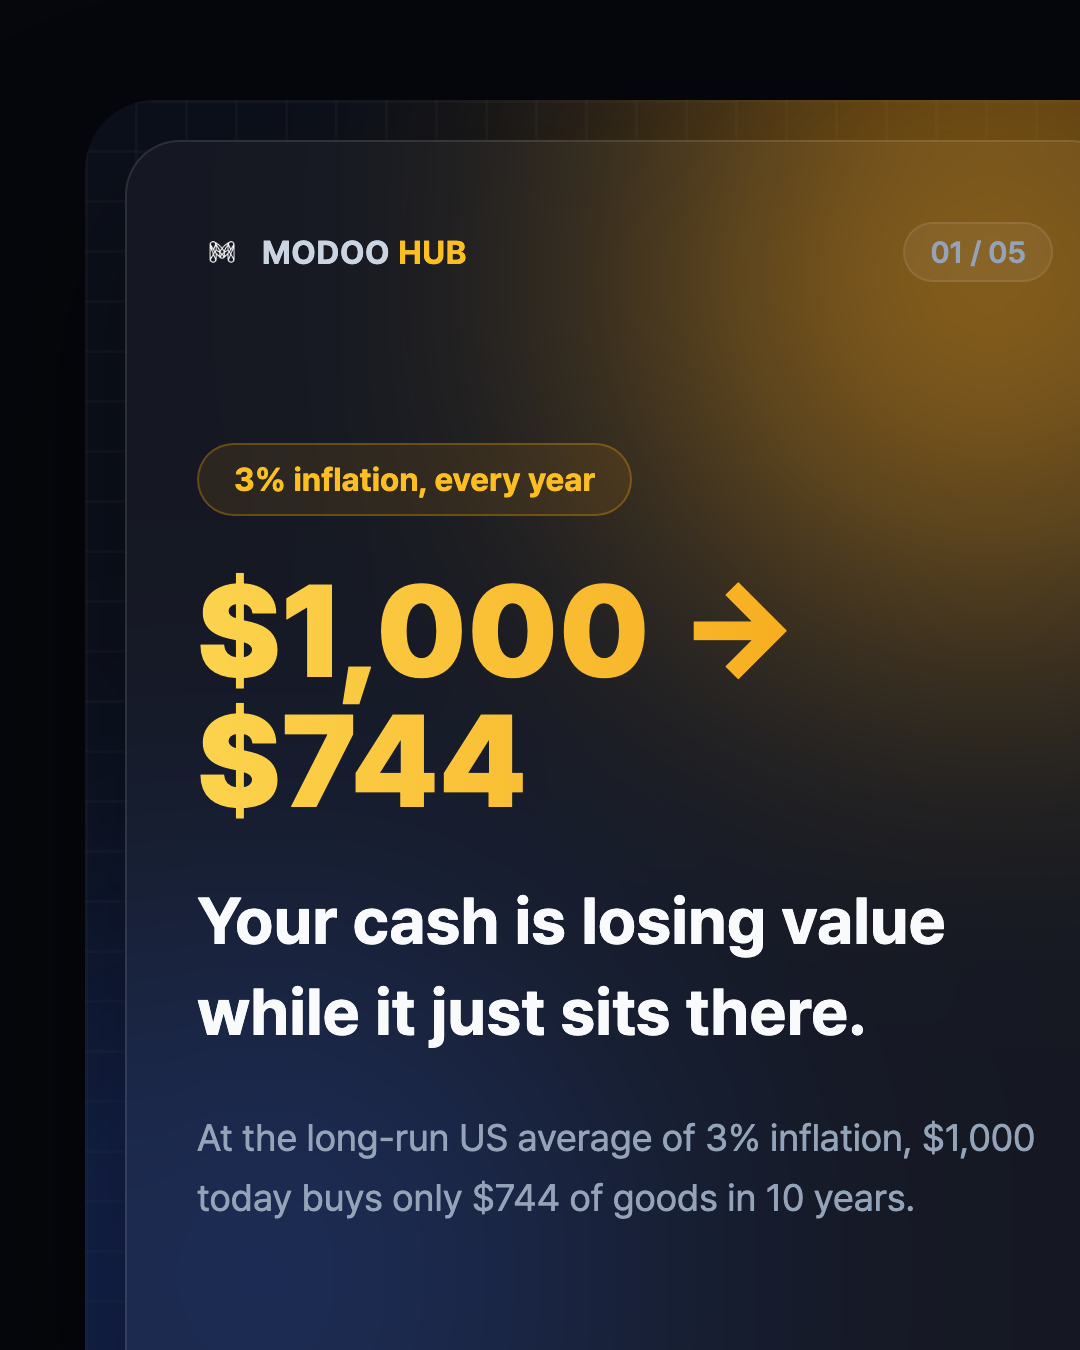
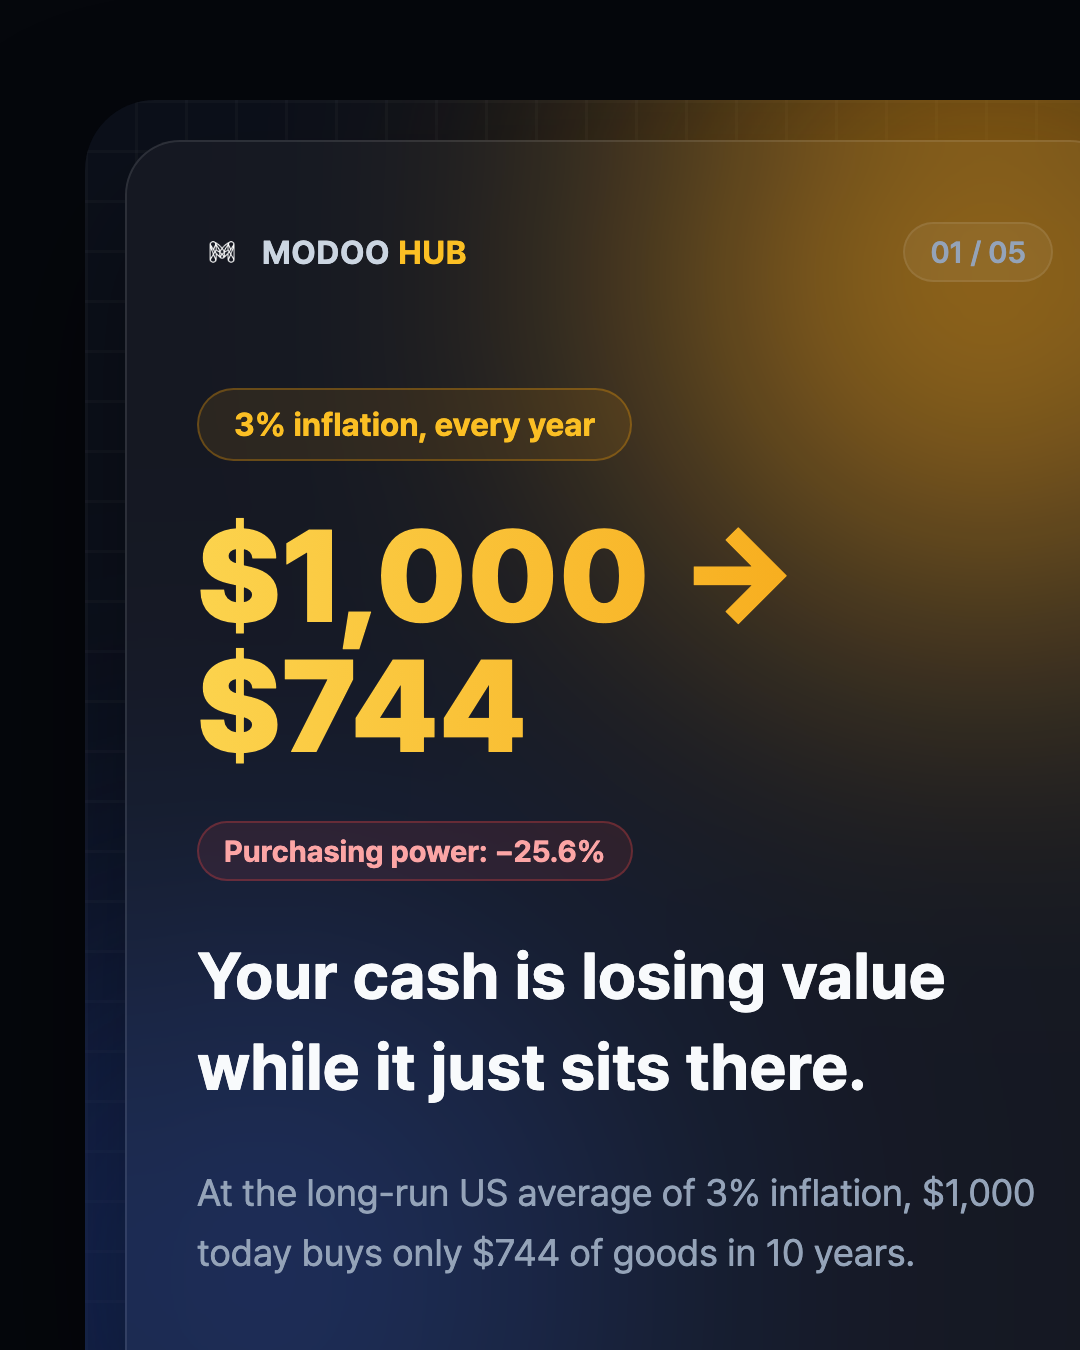
Apply Gemini fact-check fixes to Global batch 2
- timezone-converter: headline now "13-14 hours apart" with DST-aware
  subtext (Seoul KST is fixed UTC+9; NY is UTC-4 in summer/DST, UTC-5
  in winter — the old fixed "13 hours" was only true half the year).
- vat-calculator: replaced the UK tourist tax-free example (£30/store/
  day) with Italy (€70.01/store/day, verified current 2026 threshold)
  — UK abolished its VAT Retail Export Scheme for tourists in Jan 2021
  and has not reinstated it, so the old example was factually wrong.
  Also swapped the checkmark icons on the "mistakes" checklist for
  warning icons (checkmarks read as positive, but the content is a
  list of errors to avoid).
- loan-payoff-calculator: swapped warning-triangle icons for
  checkmarks on the "why extra payments work so well" slide — that
  content is positive strategy tips, not a warning.
- inflation-calculator: added a "Purchasing power: -25.6%" tag next
  to the $1,000 -> $744 headline number for a clearer loss framing.

Changed region(s): [[0.1833, 0.28, 0.9778, 0.9644], [0.6417, 0.3733, 0.7333, 0.4978]]

diff --git a/promotion/template/global-vat-calculator.html b/promotion/template/global-vat-calculator.html
@@ -87,16 +87,16 @@
           <p style="font-size:14px; color:#94a3b8; margin:0 0 8px;">Three that show up again and again.</p>
           <div style="display:flex; flex-direction:column; gap:12px;">
             <div style="display:flex; gap:12px; align-items:flex-start; background:rgba(255,255,255,0.03); border:1px solid rgba(255,255,255,0.08); border-radius:14px; padding:14px 16px;">
-              <svg width="20" height="20" viewBox="0 0 24 24" fill="none" style="flex-shrink:0; margin-top:2px;"><circle cx="12" cy="12" r="10" stroke="#fbbf24" stroke-width="2"/><path d="M8 12l3 3 5-6" stroke="#fbbf24" stroke-width="2" stroke-linecap="round" stroke-linejoin="round"/></svg>
+              <svg width="20" height="20" viewBox="0 0 24 24" fill="none" style="flex-shrink:0; margin-top:2px;"><path d="M12 9v4M12 17h.01" stroke="#fbbf24" stroke-width="2" stroke-linecap="round"/><circle cx="12" cy="12" r="10" stroke="#fbbf24" stroke-width="2"/></svg>
               <div><div style="font-size:15px; font-weight:600; color:#f1f5f9;">Quoting VAT-inclusive as VAT-exclusive</div><div style="font-size:13px; color:#94a3b8; margin-top:2px;">Silently undercharges by the full VAT amount</div></div>
             </div>
             <div style="display:flex; gap:12px; align-items:flex-start; background:rgba(255,255,255,0.03); border:1px solid rgba(255,255,255,0.08); border-radius:14px; padding:14px 16px;">
-              <svg width="20" height="20" viewBox="0 0 24 24" fill="none" style="flex-shrink:0; margin-top:2px;"><circle cx="12" cy="12" r="10" stroke="#fbbf24" stroke-width="2"/><path d="M8 12l3 3 5-6" stroke="#fbbf24" stroke-width="2" stroke-linecap="round" stroke-linejoin="round"/></svg>
+              <svg width="20" height="20" viewBox="0 0 24 24" fill="none" style="flex-shrink:0; margin-top:2px;"><path d="M12 9v4M12 17h.01" stroke="#fbbf24" stroke-width="2" stroke-linecap="round"/><circle cx="12" cy="12" r="10" stroke="#fbbf24" stroke-width="2"/></svg>
               <div><div style="font-size:15px; font-weight:600; color:#f1f5f9;">Not reclaiming input VAT on purchases</div><div style="font-size:13px; color:#94a3b8; margin-top:2px;">VAT-registered businesses can offset it against output VAT</div></div>
             </div>
             <div style="display:flex; gap:12px; align-items:flex-start; background:rgba(255,255,255,0.03); border:1px solid rgba(255,255,255,0.08); border-radius:14px; padding:14px 16px;">
-              <svg width="20" height="20" viewBox="0 0 24 24" fill="none" style="flex-shrink:0; margin-top:2px;"><circle cx="12" cy="12" r="10" stroke="#fbbf24" stroke-width="2"/><path d="M8 12l3 3 5-6" stroke="#fbbf24" stroke-width="2" stroke-linecap="round" stroke-linejoin="round"/></svg>
-              <div><div style="font-size:15px; font-weight:600; color:#f1f5f9;">Missing tourist refund minimums</div><div style="font-size:13px; color:#94a3b8; margin-top:2px;">UK £30/store/day, Germany €50, France €100.01</div></div>
+              <svg width="20" height="20" viewBox="0 0 24 24" fill="none" style="flex-shrink:0; margin-top:2px;"><path d="M12 9v4M12 17h.01" stroke="#fbbf24" stroke-width="2" stroke-linecap="round"/><circle cx="12" cy="12" r="10" stroke="#fbbf24" stroke-width="2"/></svg>
+              <div><div style="font-size:15px; font-weight:600; color:#f1f5f9;">Missing tourist refund minimums</div><div style="font-size:13px; color:#94a3b8; margin-top:2px;">Italy €70.01/store/day, Germany €50, France €100.01</div></div>
             </div>
           </div>
         </div>

diff --git a/promotion/template/global-loan-payoff-calculator.html b/promotion/template/global-loan-payoff-calculator.html
@@ -74,15 +74,15 @@
           <p style="font-size:14px; color:#e2e8f0; margin:0 0 8px;">It's not magic — it's how amortization works.</p>
           <div style="display:flex; flex-direction:column; gap:12px;">
             <div style="display:flex; gap:12px; align-items:flex-start; background:rgba(76,5,25,0.2); border:1px solid rgba(244,63,94,0.2); border-radius:14px; padding:14px 16px;">
-              <svg width="20" height="20" viewBox="0 0 24 24" fill="none" style="flex-shrink:0; margin-top:2px;"><path d="M12 3l10 18H2L12 3z" stroke="#fb7185" stroke-width="2" stroke-linejoin="round"/><path d="M12 10v4" stroke="#fb7185" stroke-width="2" stroke-linecap="round"/><circle cx="12" cy="17" r="1" fill="#fb7185"/></svg>
+              <svg width="20" height="20" viewBox="0 0 24 24" fill="none" style="flex-shrink:0; margin-top:2px;"><circle cx="12" cy="12" r="10" stroke="#fb7185" stroke-width="2"/><path d="M8 12l3 3 5-6" stroke="#fb7185" stroke-width="2" stroke-linecap="round" stroke-linejoin="round"/></svg>
               <div><div style="font-size:15px; font-weight:600; color:#fecdd3;">Extra payments hit principal directly</div><div style="font-size:13px; color:#e2e8f0; margin-top:2px;">Not next month's interest — this month's balance</div></div>
             </div>
             <div style="display:flex; gap:12px; align-items:flex-start; background:rgba(76,5,25,0.2); border:1px solid rgba(244,63,94,0.2); border-radius:14px; padding:14px 16px;">
-              <svg width="20" height="20" viewBox="0 0 24 24" fill="none" style="flex-shrink:0; margin-top:2px;"><path d="M12 3l10 18H2L12 3z" stroke="#fb7185" stroke-width="2" stroke-linejoin="round"/><path d="M12 10v4" stroke="#fb7185" stroke-width="2" stroke-linecap="round"/><circle cx="12" cy="17" r="1" fill="#fb7185"/></svg>
+              <svg width="20" height="20" viewBox="0 0 24 24" fill="none" style="flex-shrink:0; margin-top:2px;"><circle cx="12" cy="12" r="10" stroke="#fb7185" stroke-width="2"/><path d="M8 12l3 3 5-6" stroke="#fb7185" stroke-width="2" stroke-linecap="round" stroke-linejoin="round"/></svg>
               <div><div style="font-size:15px; font-weight:600; color:#fecdd3;">Lower balance means lower interest, every month after</div><div style="font-size:13px; color:#e2e8f0; margin-top:2px;">A compounding effect that runs in your favor</div></div>
             </div>
             <div style="display:flex; gap:12px; align-items:flex-start; background:rgba(76,5,25,0.2); border:1px solid rgba(244,63,94,0.2); border-radius:14px; padding:14px 16px;">
-              <svg width="20" height="20" viewBox="0 0 24 24" fill="none" style="flex-shrink:0; margin-top:2px;"><path d="M12 3l10 18H2L12 3z" stroke="#fb7185" stroke-width="2" stroke-linejoin="round"/><path d="M12 10v4" stroke="#fb7185" stroke-width="2" stroke-linecap="round"/><circle cx="12" cy="17" r="1" fill="#fb7185"/></svg>
+              <svg width="20" height="20" viewBox="0 0 24 24" fill="none" style="flex-shrink:0; margin-top:2px;"><circle cx="12" cy="12" r="10" stroke="#fb7185" stroke-width="2"/><path d="M8 12l3 3 5-6" stroke="#fb7185" stroke-width="2" stroke-linecap="round" stroke-linejoin="round"/></svg>
               <div><div style="font-size:15px; font-weight:600; color:#fecdd3;">Monthly beats an annual lump sum</div><div style="font-size:13px; color:#e2e8f0; margin-top:2px;">Interest accrues daily on the remaining balance</div></div>
             </div>
           </div>

diff --git a/promotion/template/global-timezone-converter.html b/promotion/template/global-timezone-converter.html
@@ -35,13 +35,13 @@
 
         <div class="slide active" data-slide="0" style="flex-direction:column; flex:1; justify-content:center; gap:20px;">
           <span style="align-self:flex-start; font-size:13px; font-weight:700; color:#fbbf24; background:rgba(245,158,11,0.1); border:1px solid rgba(245,158,11,0.3); padding:6px 14px; border-radius:9999px;">Seoul vs New York</span>
-          <h1 style="font-size:28px; font-weight:700; color:#f8fafc; line-height:1.4; margin:0;">One call, two clocks<br/>13 hours apart.</h1>
+          <h1 style="font-size:28px; font-weight:700; color:#f8fafc; line-height:1.4; margin:0;">One call, two clocks<br/>13–14 hours apart.</h1>
           <div style="display:flex; align-items:center; gap:10px; margin-top:4px;">
             <div style="flex:1; height:1px; background:rgba(59,130,246,0.4);"></div>
             <span style="font-size:12px; font-weight:800; color:#0B0F19; background:#fbbf24; padding:5px 12px; border-radius:9999px;">VS</span>
             <div style="flex:1; height:1px; background:rgba(245,158,11,0.4);"></div>
           </div>
-          <p style="font-size:15px; color:#94a3b8; line-height:1.6; margin:0;">Scheduling across time zones means someone's always working off-hours.</p>
+          <p style="font-size:15px; color:#94a3b8; line-height:1.6; margin:0;">13 hrs in summer (DST), 14 hrs in winter — someone's always working off-hours.</p>
         </div>
 
         <div class="slide" data-slide="1" style="flex-direction:column; flex:1; gap:16px;">

diff --git a/promotion/template/global-inflation-calculator.html b/promotion/template/global-inflation-calculator.html
@@ -37,6 +37,7 @@
         <div class="slide active" data-slide="0" style="flex-direction:column; flex:1; justify-content:center; gap:20px;">
           <span style="align-self:flex-start; font-size:13px; font-weight:700; color:#fbbf24; background:rgba(245,158,11,0.1); border:1px solid rgba(245,158,11,0.3); padding:6px 14px; border-radius:9999px;">3% inflation, every year</span>
           <div style="font-size:52px; font-weight:900; line-height:1; background:linear-gradient(90deg,#fcd34d,#f59e0b); -webkit-background-clip:text; background-clip:text; color:transparent;">$1,000 → $744</div>
+          <span style="align-self:flex-start; font-size:12px; font-weight:700; color:#fca5a5; background:rgba(239,68,68,0.1); border:1px solid rgba(239,68,68,0.3); padding:4px 10px; border-radius:9999px;">Purchasing power: −25.6%</span>
           <h1 style="font-size:26px; font-weight:700; color:#f8fafc; line-height:1.4; margin:0;">Your cash is losing value while it just sits there.</h1>
           <p style="font-size:15px; color:#94a3b8; line-height:1.6; margin:0;">At the long-run US average of 3% inflation, $1,000 today buys only $744 of goods in 10 years.</p>
         </div>
